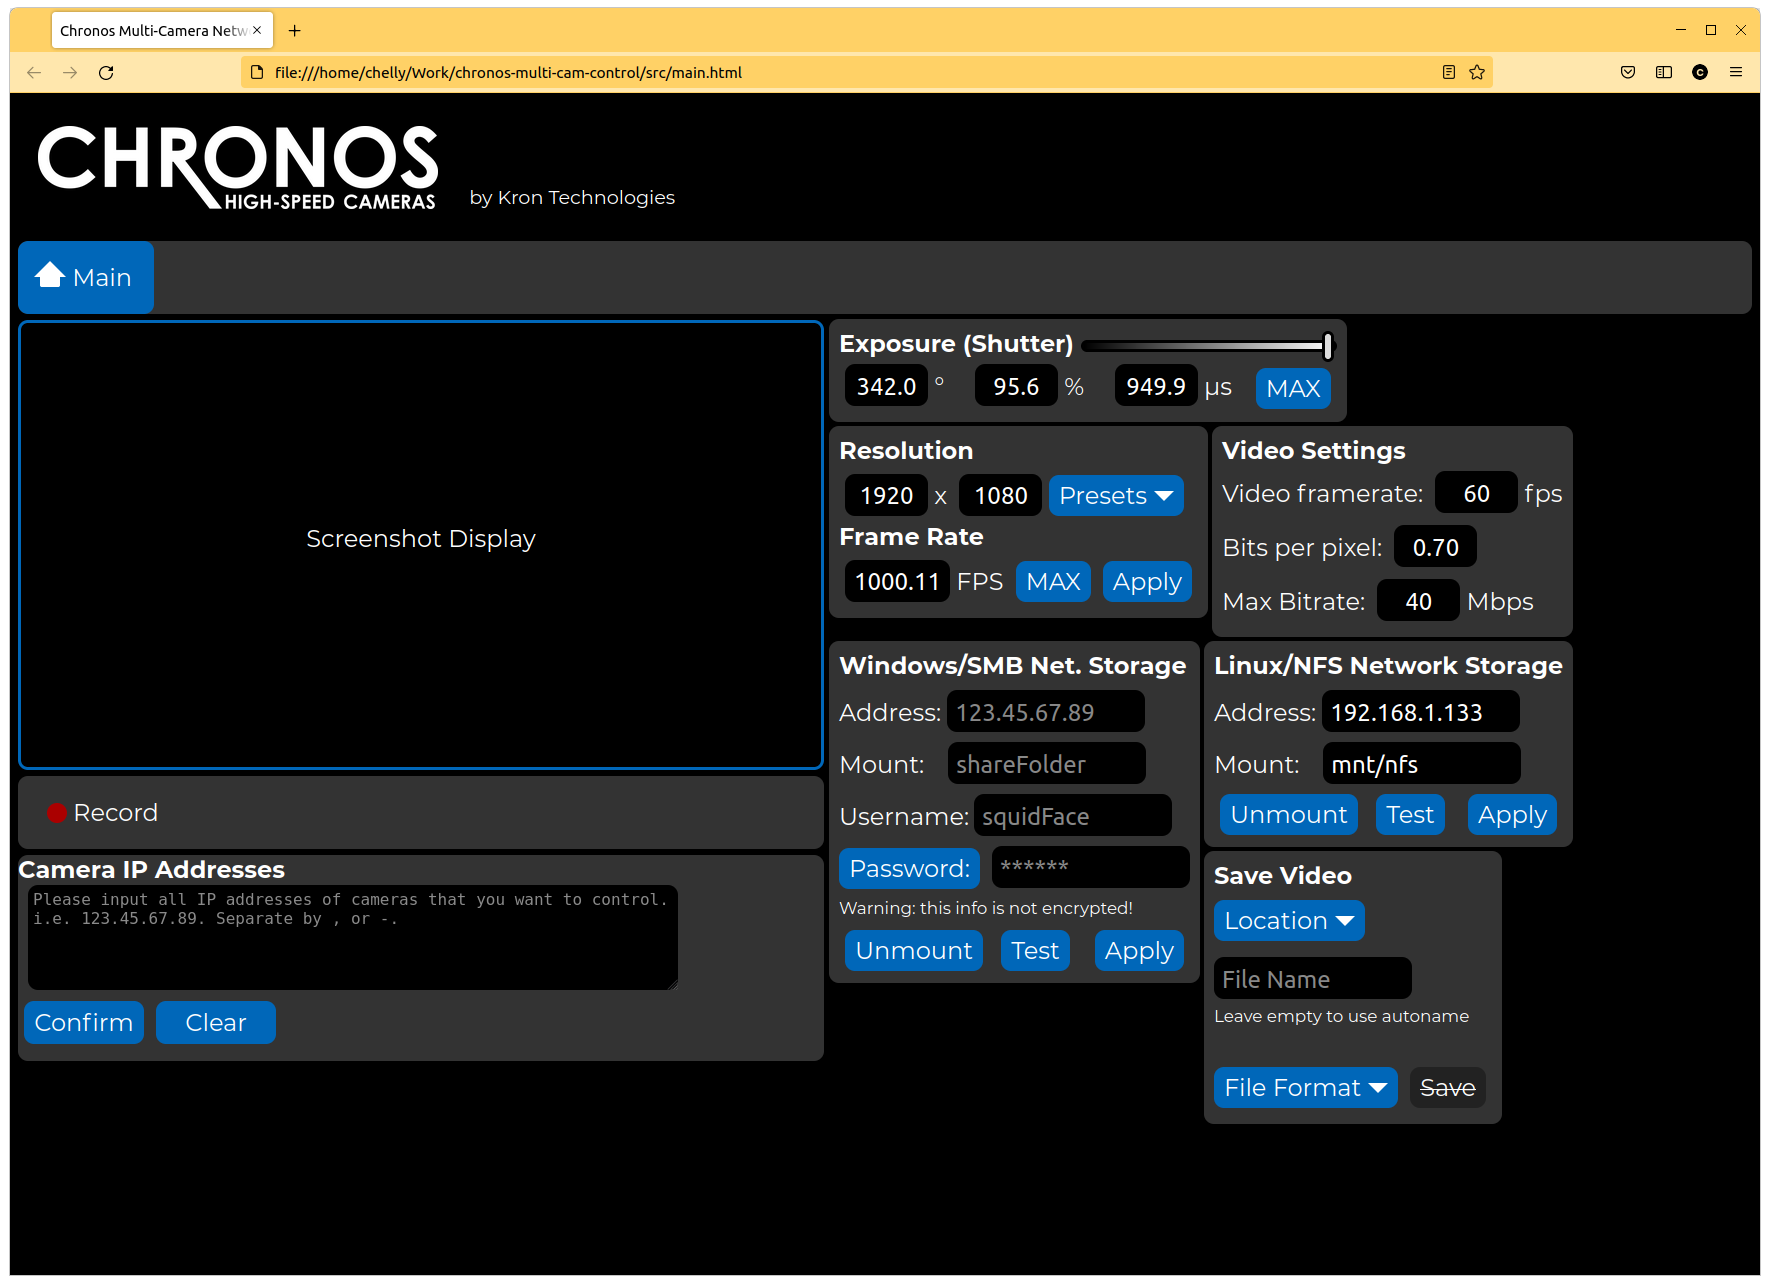
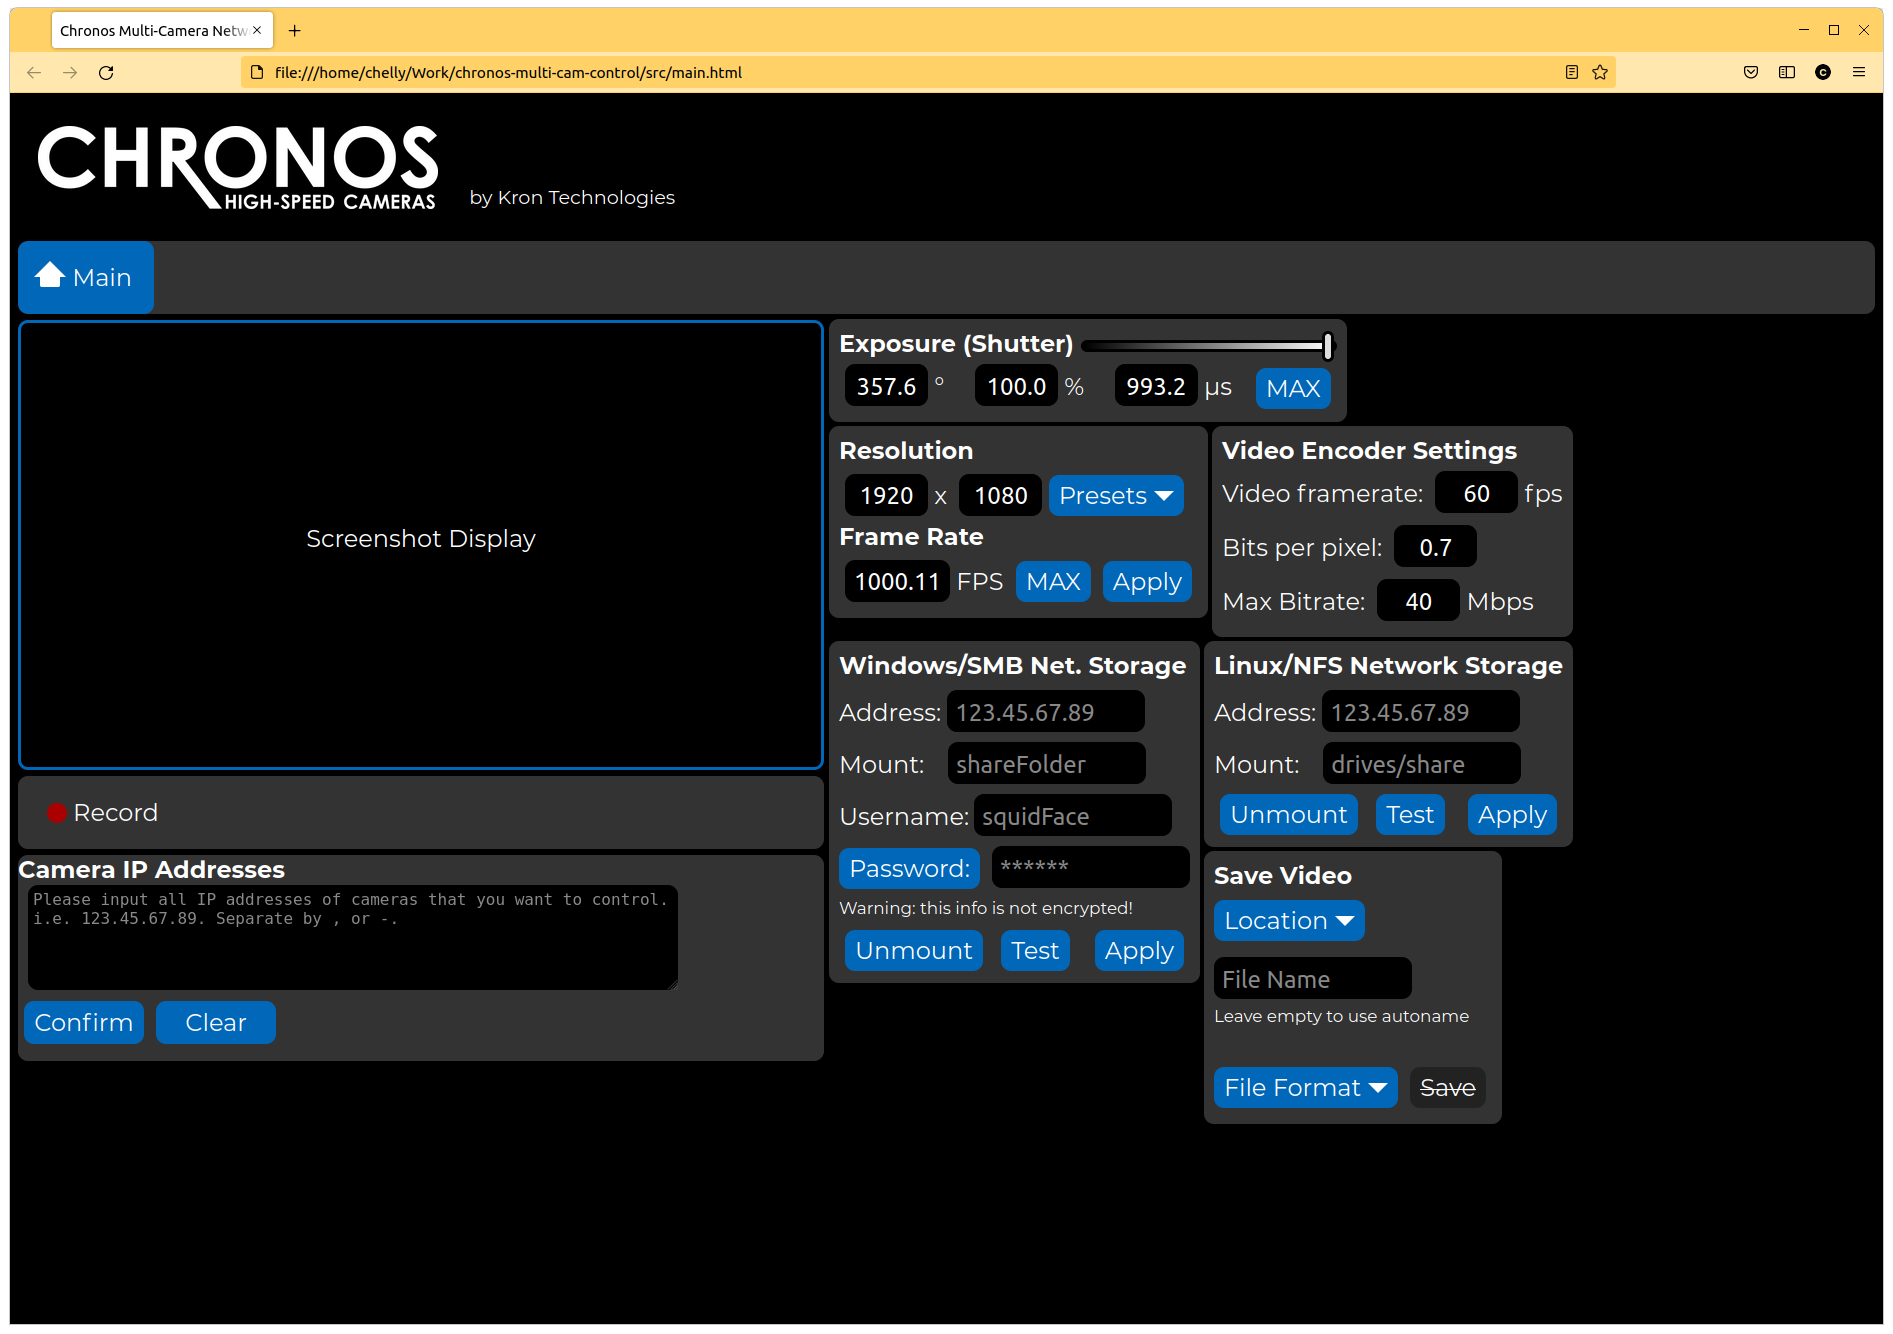
Change Video Settings to Video Encoder Settings

Changed region(s): [[0.0, 0.0, 1.0, 0.9961], [0.1554, 0.3735, 0.3107, 0.4358]]

diff --git a/src/main.html b/src/main.html
@@ -224,7 +224,7 @@
             </div>
 
             <div id="videoSettingsBox" class="horizLayout">
-                <b> Video Settings </b>
+                <b> Video Encoder Settings </b>
                 <br>
                 Video framerate:
                 <input type="number" id="saveFPSNum" min="1" max="60" step="1" value="60" onChange="boundInput(this)"> fps

diff --git a/README.md b/README.md
@@ -40,9 +40,9 @@ All Chronos cameras connected via webpage must have the same type of external st
 
 Videos will be saved as *vid_YYYY-MM-DD_HH-MM-SS_SerialNumber* if users choose to save with autogenerated name. If users input a customer-defined name, videos will save as *filename_SerialNumber*. The recorded footage can be differentiated by the camera serial numbers. <b> Note: Saving to SMB or NFS network storage is recommended for better success saving multiple videos and verifying all videos from Chronos cameras are saved to the directory before proceeding. </b>
 
-### Video Settings
+### Video Encoder Settings
 
-Settings for H.264(mp4) videos are in *Video Settings* Section. 
+Settings for H.264(mp4) videos are in *Video Encoder Settings* Section. 
 
 Videos in H.264 format will be saved based on the video framerate, bits per pixel and max bitrate that are set and displayed on the multi-cam control webpage instead of  settings on camera GUI. Every video will be in the same settings.
 
